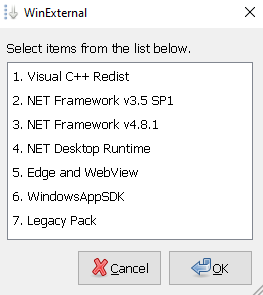
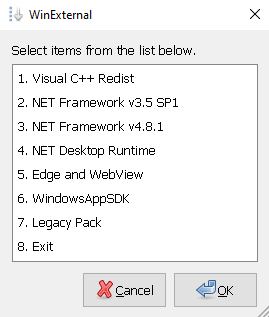
Update 05/23/2026

Changed region(s): [[0.0, 0.122, 1.0, 1.0], [0.0, 0.0, 0.365, 0.0915], [0.9125, 0.0305, 0.9734, 0.061]]

diff --git a/README-es.md b/README-es.md
@@ -22,7 +22,7 @@
 
 | File | OS | Size |
 | :---: | :---: | :---: |
-| [WinExternal.exe (.zip)](https://mega.nz/file/2I9m3SIS#JOe8W5SUhvgtlhemQ4EC3Ssv4cbrUkb57L_0G8tg20s) | Windows 7/10/11 x86 x64 | 1.12 GB |
+| [WinExternal.exe (.zip)](https://mega.nz/file/bYk1WC5K#vVS2g4TAVCfFKPLmHhBFsEoYsNQNlRnxdKEeNbv73Ic) | Windows 7/10/11 x86 x64 | 1.12 GB |
 
 ## HOW TO USE
 
@@ -108,8 +108,8 @@ dotnet --info
 
 [![Image](https://raw.githubusercontent.com/maravento/winexternal/master/img/winexternal-edge.png)](https://www.maravento.com/p/winexternal.html)
 
-- Microsoft Edge for Business x64 - 148.0.3967.54 (Active Support)
-- Microsoft Edge WebView2 Evergreen Standalone Installer x64 - 148.0.3967.54 (Active Support)
+- Microsoft Edge for Business x64 - 148.0.3967.83 (Active Support)
+- Microsoft Edge WebView2 Evergreen Standalone Installer x64 - 148.0.3967.83 (Active Support)
 
 #### Important About Edge
 
@@ -119,7 +119,7 @@ Edge y WebView2 ahora vienen instalados en la mayoría de los dispositivos con W
 
 [![Image](https://raw.githubusercontent.com/maravento/winexternal/master/img/winexternal-sdk.png)](https://www.maravento.com/p/winexternal.html)
 
-- Windows App SDK 2.0.1 Installer x64 (Active Support)
+- Windows App SDK 2.1.3 Installer x64 (Active Support)
 
 #### Important About Windows App Runtime SDK
 

diff --git a/README.md b/README.md
@@ -22,7 +22,7 @@
 
 | File | OS | Size |
 | :---: | :---: | :---: |
-| [WinExternal.exe (.zip)](https://mega.nz/file/2I9m3SIS#JOe8W5SUhvgtlhemQ4EC3Ssv4cbrUkb57L_0G8tg20s) | Windows 7/10/11 x86 x64 | 1.12 GB |
+| [WinExternal.exe (.zip)](https://mega.nz/file/bYk1WC5K#vVS2g4TAVCfFKPLmHhBFsEoYsNQNlRnxdKEeNbv73Ic) | Windows 7/10/11 x86 x64 | 1.12 GB |
 
 ## HOW TO USE
 
@@ -108,8 +108,8 @@ dotnet --info
 
 [![Image](https://raw.githubusercontent.com/maravento/winexternal/master/img/winexternal-edge.png)](https://www.maravento.com/p/winexternal.html)
 
-- Microsoft Edge for Business x64 - 148.0.3967.54 (Active Support)
-- Microsoft Edge WebView2 Evergreen Standalone Installer x64 - 148.0.3967.54 (Active Support)
+- Microsoft Edge for Business x64 - 148.0.3967.83 (Active Support)
+- Microsoft Edge WebView2 Evergreen Standalone Installer x64 - 148.0.3967.83 (Active Support)
 
 #### Important About Edge
 
@@ -119,7 +119,7 @@ Edge and WebView2 are now pre-installed on most devices running Windows 10 or hi
 
 [![Image](https://raw.githubusercontent.com/maravento/winexternal/master/img/winexternal-sdk.png)](https://www.maravento.com/p/winexternal.html)
 
-- Windows App SDK 2.0.1 Installer x64 (Active Support)
+- Windows App SDK 2.1.3 Installer x64 (Active Support)
 
 #### Important About Windows App Runtime SDK
 